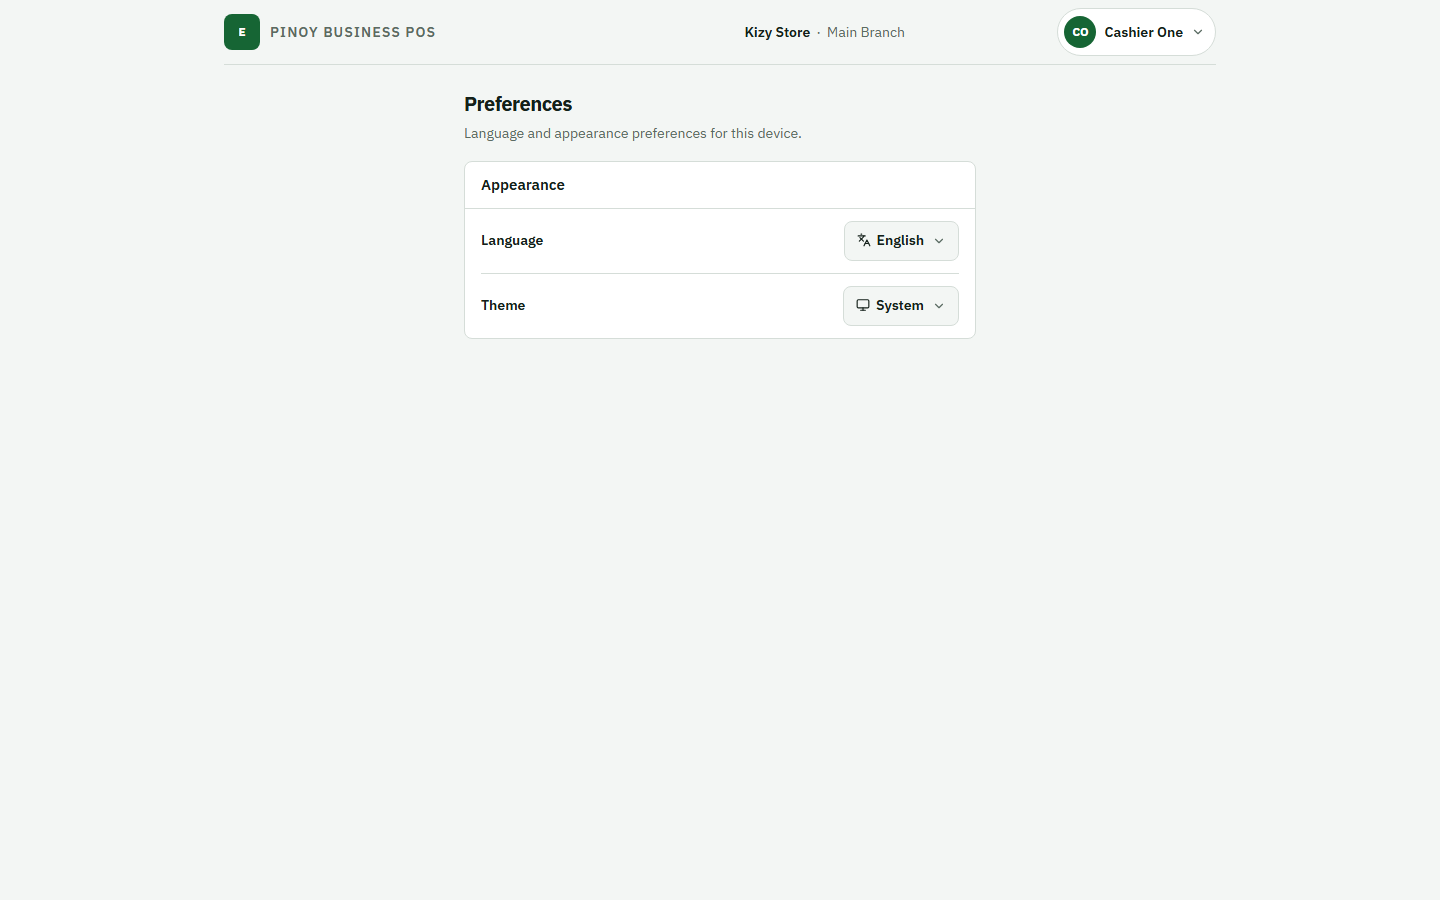
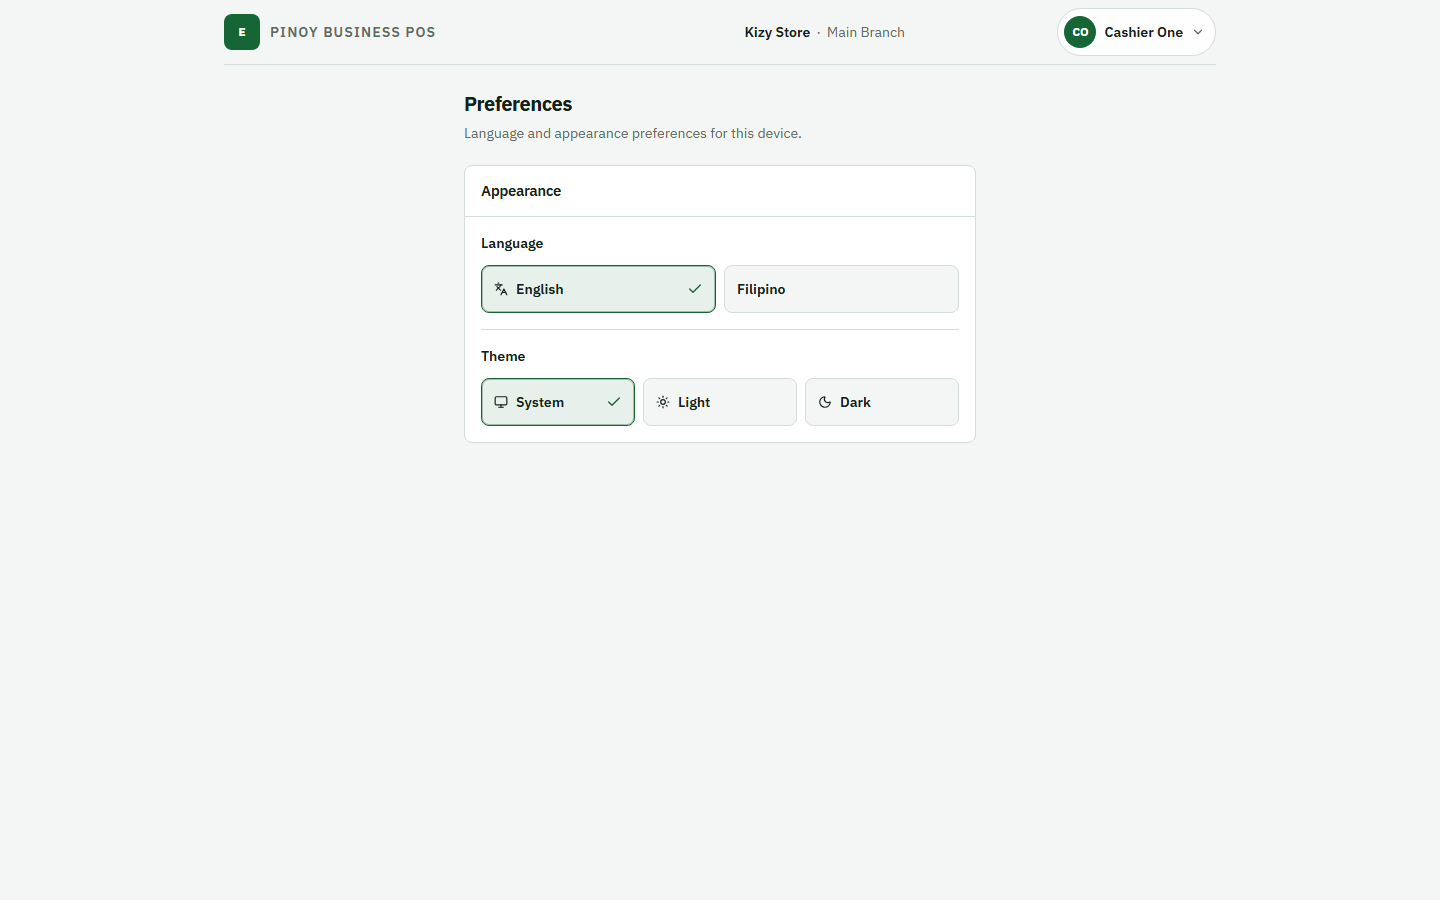
refactor(pos-react): polish mobile account shell and preferences

diff --git a/src/Products/PinoyBusinessPOS/ExItS.PinoyBusinessPOS.Client/src/components/ui/settings-select.tsx b/src/Products/PinoyBusinessPOS/ExItS.PinoyBusinessPOS.Client/src/components/ui/settings-select.tsx
@@ -1,6 +1,5 @@
-import { Check, ChevronDown } from "lucide-react";
-import type { ReactNode } from "react";
-import { DropdownMenu, MenuItem } from "@/components/ui/dropdown-menu";
+import { Check } from "lucide-react";
+import { useId, type ReactNode } from "react";
 import { cn } from "@/lib/cn";
 
 export type SettingsOption<T extends string> = {
@@ -14,78 +13,67 @@ type SettingsSelectProps<T extends string> = {
   value: T;
   options: SettingsOption<T>[];
   onChange: (value: T) => void;
-  open: boolean;
-  onOpenChange: (open: boolean) => void;
 };
 
-/** Compact settings-row select (not segmented buttons). */
+/**
+ * In-flow preference choices (not an absolute dropdown).
+ * Avoids covering the next settings row on narrow phone viewports.
+ */
 export function SettingsSelect<T extends string>({
   label,
   value,
   options,
   onChange,
-  open,
-  onOpenChange,
 }: SettingsSelectProps<T>) {
-  const selected = options.find((option) => option.value === value) ?? options[0];
+  const labelId = useId();
+  const layoutClass =
+    options.length === 2
+      ? "grid grid-cols-1 gap-2 min-[380px]:grid-cols-2"
+      : options.length === 3
+        ? "grid grid-cols-1 gap-2 min-[480px]:grid-cols-3"
+        : "flex flex-col gap-2";
 
   return (
-    <div className="flex min-w-0 items-center justify-between gap-4 py-3">
-      <span className="shrink-0 text-[length:var(--exits-text-sm)] font-semibold text-foreground">
+    <div className="flex min-w-0 flex-col gap-3 py-4">
+      <span
+        id={labelId}
+        className="text-[length:var(--exits-text-sm)] font-semibold text-foreground"
+      >
         {label}
       </span>
-      <DropdownMenu
-        align="end"
-        open={open}
-        onOpenChange={onOpenChange}
-        menuLabel={label}
-        trigger={({ id, expanded, controls, onClick, onKeyDown }) => (
-          <button
-            id={id}
-            type="button"
-            className={cn(
-              "inline-flex min-h-[2.5rem] max-w-[12rem] items-center justify-between gap-2 rounded-[var(--exits-radius-md)] border border-border bg-background px-3 text-[length:var(--exits-text-sm)] font-semibold text-foreground transition-colors duration-[var(--exits-motion-fast)] hover:bg-[var(--exits-surface-muted)] focus-visible:outline-none focus-visible:ring-2 focus-visible:ring-ring",
-              expanded && "bg-[var(--exits-surface-muted)]",
-            )}
-            aria-haspopup="menu"
-            aria-expanded={expanded}
-            aria-controls={controls}
-            aria-label={`${label}: ${selected?.label ?? ""}`}
-            onClick={onClick}
-            onKeyDown={onKeyDown}
-          >
-            <span className="flex min-w-0 items-center gap-1.5 truncate">
-              {selected?.icon}
-              <span className="truncate">{selected?.label}</span>
-            </span>
-            <ChevronDown className="size-3.5 shrink-0 text-muted" aria-hidden="true" />
-          </button>
-        )}
-      >
+      <div role="radiogroup" aria-labelledby={labelId} className={layoutClass}>
         {options.map((option) => {
-          const selectedOption = option.value === value;
+          const selected = option.value === value;
           return (
-            <MenuItem
+            <button
               key={option.value}
-              onSelect={() => {
+              type="button"
+              role="radio"
+              aria-checked={selected}
+              aria-label={`${label}: ${option.label}`}
+              className={cn(
+                "flex min-h-[var(--exits-touch-target-min)] min-w-0 items-center gap-2.5 rounded-[var(--exits-radius-md)] border px-3 py-2.5 text-left text-[length:var(--exits-text-sm)] font-semibold transition-[background-color,border-color,color,box-shadow] duration-[var(--exits-motion-fast)] focus-visible:outline-none focus-visible:ring-2 focus-visible:ring-ring",
+                selected
+                  ? "border-primary bg-[color-mix(in_srgb,var(--exits-primary)_10%,var(--exits-surface))] text-foreground shadow-[inset_0_0_0_1px_color-mix(in_srgb,var(--exits-primary)_35%,transparent)]"
+                  : "border-border bg-background text-foreground hover:bg-[var(--exits-surface-muted)]",
+              )}
+              onClick={() => {
                 onChange(option.value);
-                onOpenChange(false);
               }}
             >
               <span className="flex min-w-0 flex-1 items-center gap-2 truncate">
                 {option.icon}
                 <span className="truncate">{option.label}</span>
               </span>
-              {selectedOption ? (
+              {selected ? (
                 <Check className="size-4 shrink-0 text-primary" aria-hidden="true" />
               ) : (
                 <span className="size-4 shrink-0" aria-hidden="true" />
               )}
-              {selectedOption ? <span className="sr-only">selected</span> : null}
-            </MenuItem>
+            </button>
           );
         })}
-      </DropdownMenu>
+      </div>
     </div>
   );
 }

diff --git a/src/Products/PinoyBusinessPOS/ExItS.PinoyBusinessPOS.Client/src/components/exits/AppTopBar.tsx b/src/Products/PinoyBusinessPOS/ExItS.PinoyBusinessPOS.Client/src/components/exits/AppTopBar.tsx
@@ -49,18 +49,45 @@ export function AppTopBar() {
           >
             E
           </div>
-          <div className="min-w-0">
-            <p className="m-0 truncate text-[length:var(--exits-text-xs)] font-semibold tracking-[0.08em] uppercase text-muted sm:text-[length:var(--exits-text-sm)]">
+          <div className="min-w-0 md:hidden">
+            {boundWorkspace ? (
+              <button
+                type="button"
+                data-testid="workspace-context-mobile"
+                className={cn(
+                  "flex min-w-0 max-w-full flex-col items-start rounded-[var(--exits-radius-md)] px-0.5 py-0.5 text-left focus-visible:outline-none focus-visible:ring-2 focus-visible:ring-ring",
+                  canSwitchWorkspace ? "hover:bg-[var(--exits-surface-muted)]" : "cursor-default",
+                )}
+                title={workspaceLabel ?? undefined}
+                aria-label={
+                  canSwitchWorkspace
+                    ? `${t("workspace.switch")}: ${workspaceLabel}`
+                    : (workspaceLabel ?? undefined)
+                }
+                onClick={() => {
+                  if (canSwitchWorkspace) {
+                    navigate("/workspace");
+                  }
+                }}
+                disabled={!canSwitchWorkspace}
+              >
+                <span className="m-0 w-full truncate text-[length:var(--exits-text-sm)] font-semibold text-foreground">
+                  {boundWorkspace.organizationDisplayName}
+                </span>
+                <span className="m-0 w-full truncate text-[length:var(--exits-text-xs)] text-muted">
+                  {boundWorkspace.branchName}
+                </span>
+              </button>
+            ) : (
+              <p className="m-0 truncate text-[length:var(--exits-text-xs)] font-semibold tracking-[0.08em] uppercase text-muted sm:text-[length:var(--exits-text-sm)]">
+                {t("app.name")}
+              </p>
+            )}
+          </div>
+          <div className="hidden min-w-0 md:block">
+            <p className="m-0 truncate text-[length:var(--exits-text-sm)] font-semibold tracking-[0.08em] uppercase text-muted">
               {t("app.name")}
             </p>
-            {boundWorkspace ? (
-              <p
-                className="m-0 truncate text-[length:var(--exits-text-sm)] font-semibold text-foreground md:hidden"
-                title={workspaceLabel ?? undefined}
-              >
-                {boundWorkspace.branchName}
-              </p>
-            ) : null}
           </div>
         </div>
 

diff --git a/src/Products/PinoyBusinessPOS/ExItS.PinoyBusinessPOS.Client/src/app/foundation.test.tsx b/src/Products/PinoyBusinessPOS/ExItS.PinoyBusinessPOS.Client/src/app/foundation.test.tsx
@@ -41,8 +41,8 @@ describe("POS React foundation", () => {
     renderAuthenticatedAt("/settings/preferences");
     await waitFor(() => {
       expect(screen.getByRole("heading", { name: "Preferences" })).toBeInTheDocument();
-      expect(screen.getByRole("button", { name: "Language: English" })).toBeInTheDocument();
-      expect(screen.getByRole("button", { name: "Theme: System" })).toBeInTheDocument();
+      expect(screen.getByRole("radio", { name: "Language: English" })).toBeInTheDocument();
+      expect(screen.getByRole("radio", { name: "Theme: System" })).toBeInTheDocument();
     });
     expect(document.documentElement.lang).toBe("en");
     expect(document.documentElement.dataset.theme).toBe("system");
@@ -54,8 +54,7 @@ describe("POS React foundation", () => {
     await waitFor(() => {
       expect(screen.getByRole("heading", { name: "Preferences" })).toBeInTheDocument();
     });
-    await user.click(screen.getByRole("button", { name: "Language: English" }));
-    await user.click(screen.getByRole("menuitem", { name: /Filipino/ }));
+    await user.click(screen.getByRole("radio", { name: "Language: Filipino" }));
     await waitFor(() => {
       expect(document.documentElement.lang).toBe("fil-PH");
     });
@@ -70,17 +69,13 @@ describe("POS React foundation", () => {
     renderAuthenticatedAt("/settings/preferences");
     await waitFor(() => {
       expect(screen.getByRole("heading", { name: "Preferences" })).toBeInTheDocument();
-      expect(
-        screen.getByRole("button", { name: /Theme: System|Tema: System/ }),
-      ).toBeInTheDocument();
+      expect(screen.getByRole("radio", { name: /Theme: System|Tema: System/ })).toBeInTheDocument();
     });
-    await user.click(screen.getByRole("button", { name: /Theme: System|Tema: System/ }));
-    await user.click(screen.getByRole("menuitem", { name: /Dark/ }));
+    await user.click(screen.getByRole("radio", { name: /Theme: Dark|Tema: Dark/ }));
     await waitFor(() => {
       expect(document.documentElement.dataset.theme).toBe("dark");
     });
-    await user.click(screen.getByRole("button", { name: /Theme: Dark|Tema: Dark/ }));
-    await user.click(screen.getByRole("menuitem", { name: /Light/ }));
+    await user.click(screen.getByRole("radio", { name: /Theme: Light|Tema: Light/ }));
     await waitFor(() => {
       expect(document.documentElement.dataset.theme).toBe("light");
     });

diff --git a/src/Products/PinoyBusinessPOS/ExItS.PinoyBusinessPOS.Client/e2e/foundation.spec.ts b/src/Products/PinoyBusinessPOS/ExItS.PinoyBusinessPOS.Client/e2e/foundation.spec.ts
@@ -71,14 +71,11 @@ test.describe("POS React foundation", () => {
     await mockAuthenticatedSession(page);
     await page.goto("/settings/preferences");
     await expect(page.getByRole("heading", { name: "Preferences" })).toBeVisible();
-    await page.getByRole("button", { name: "Theme: System" }).click();
-    await page.getByRole("menuitem", { name: /Dark/ }).click();
+    await page.getByRole("radio", { name: "Theme: Dark" }).click();
     await expect(page.locator("html")).toHaveAttribute("data-theme", "dark");
-    await page.getByRole("button", { name: "Theme: Dark" }).click();
-    await page.getByRole("menuitem", { name: /Light/ }).click();
+    await page.getByRole("radio", { name: "Theme: Light" }).click();
     await expect(page.locator("html")).toHaveAttribute("data-theme", "light");
-    await page.getByRole("button", { name: "Theme: Light" }).click();
-    await page.getByRole("menuitem", { name: /System/ }).click();
+    await page.getByRole("radio", { name: "Theme: System" }).click();
     await expect(page.locator("html")).toHaveAttribute("data-theme", "system");
   });
 
@@ -86,12 +83,10 @@ test.describe("POS React foundation", () => {
     await mockAuthenticatedSession(page);
     await page.goto("/settings/preferences");
     await expect(page.getByRole("heading", { name: "Preferences" })).toBeVisible();
-    await page.getByRole("button", { name: "Language: English" }).click();
-    await page.getByRole("menuitem", { name: /Filipino/ }).click();
+    await page.getByRole("radio", { name: "Language: Filipino" }).click();
     await expect(page.locator("html")).toHaveAttribute("lang", "fil-PH");
     await expect(page.getByRole("heading", { name: "Preferences" })).toBeVisible();
-    await page.getByRole("button", { name: /Language: Filipino|Wika: Filipino/ }).click();
-    await page.getByRole("menuitem", { name: /English/ }).click();
+    await page.getByRole("radio", { name: /Language: English|Wika: English/ }).click();
     await expect(page.locator("html")).toHaveAttribute("lang", "en");
     await expect(page.getByRole("heading", { name: "Preferences" })).toBeVisible();
   });

diff --git a/src/Products/PinoyBusinessPOS/ExItS.PinoyBusinessPOS.Client/e2e/shell-account-ux.spec.ts b/src/Products/PinoyBusinessPOS/ExItS.PinoyBusinessPOS.Client/e2e/shell-account-ux.spec.ts
@@ -49,16 +49,14 @@ test.describe("shell account UX evidence", () => {
     await page.getByTestId("account-menu-trigger").click();
     await page.getByRole("menuitem", { name: "Preferences" }).click();
 
-    await page.getByRole("button", { name: "Theme: System" }).click();
-    await page.getByRole("menuitem", { name: /Dark/ }).click();
+    await page.getByRole("radio", { name: "Theme: Dark" }).click();
     await expect(page.locator("html")).toHaveAttribute("data-theme", "dark");
     await page.screenshot({
       path: path.join(screenshotDir, "04-desktop-preferences-1440x900-en-dark.png"),
       fullPage: true,
     });
 
-    await page.getByRole("button", { name: "Language: English" }).click();
-    await page.getByRole("menuitem", { name: /Filipino/ }).click();
+    await page.getByRole("radio", { name: "Language: Filipino" }).click();
     await expect(page.locator("html")).toHaveAttribute("lang", "fil-PH");
     await page.screenshot({
       path: path.join(screenshotDir, "05-desktop-preferences-1440x900-fil-dark.png"),

diff --git a/src/Products/PinoyBusinessPOS/ExItS.PinoyBusinessPOS.Client/src/features/preferences/PreferencesPage.tsx b/src/Products/PinoyBusinessPOS/ExItS.PinoyBusinessPOS.Client/src/features/preferences/PreferencesPage.tsx
@@ -7,16 +7,16 @@ export function PreferencesPage() {
   const { t } = useI18n();
 
   return (
-    <div className="mx-auto flex w-full max-w-lg min-w-0 flex-col gap-4">
+    <div className="mx-auto flex w-full max-w-lg min-w-0 flex-col gap-5">
       <PageHeader title={t("preferences.title")} description={t("preferences.lede")} />
       <section
-        className="overflow-hidden rounded-[var(--exits-radius-md)] border border-border bg-surface"
+        className="rounded-[var(--exits-radius-md)] border border-border bg-surface"
         aria-labelledby="preferences-appearance"
       >
-        <div className="border-b border-border px-4 py-3">
+        <div className="border-b border-border px-4 py-3.5">
           <h2
             id="preferences-appearance"
-            className="m-0 text-[length:var(--exits-text-md)] font-semibold text-foreground"
+            className="m-0 text-[length:var(--exits-text-md)] font-semibold tracking-tight text-foreground"
           >
             {t("preferences.appearance")}
           </h2>

diff --git a/src/Products/PinoyBusinessPOS/ExItS.PinoyBusinessPOS.Client/src/components/exits/LanguageControl.tsx b/src/Products/PinoyBusinessPOS/ExItS.PinoyBusinessPOS.Client/src/components/exits/LanguageControl.tsx
@@ -1,5 +1,4 @@
 import { Languages } from "lucide-react";
-import { useState } from "react";
 import { SettingsSelect } from "@/components/ui/settings-select";
 import { usePreferences } from "@/hooks/usePreferences";
 import { useI18n } from "@/i18n/I18nProvider";
@@ -8,14 +7,11 @@ import type { LocalePreference } from "@/lib/preferences/ui-preferences";
 export function LanguageControl() {
   const { t } = useI18n();
   const { preferences, setLocale } = usePreferences();
-  const [open, setOpen] = useState(false);
 
   return (
     <SettingsSelect<LocalePreference>
       label={t("locale.label")}
       value={preferences.locale}
-      open={open}
-      onOpenChange={setOpen}
       onChange={setLocale}
       options={[
         {

diff --git a/src/Products/PinoyBusinessPOS/ExItS.PinoyBusinessPOS.Client/src/components/exits/ThemeControl.tsx b/src/Products/PinoyBusinessPOS/ExItS.PinoyBusinessPOS.Client/src/components/exits/ThemeControl.tsx
@@ -1,5 +1,4 @@
 import { Monitor, Moon, Sun } from "lucide-react";
-import { useState } from "react";
 import { SettingsSelect } from "@/components/ui/settings-select";
 import { usePreferences } from "@/hooks/usePreferences";
 import { useI18n } from "@/i18n/I18nProvider";
@@ -8,14 +7,11 @@ import type { ThemePreference } from "@/lib/preferences/ui-preferences";
 export function ThemeControl() {
   const { t } = useI18n();
   const { preferences, setTheme } = usePreferences();
-  const [open, setOpen] = useState(false);
 
   return (
     <SettingsSelect<ThemePreference>
       label={t("theme.label")}
       value={preferences.theme}
-      open={open}
-      onOpenChange={setOpen}
       onChange={setTheme}
       options={[
         {

diff --git a/src/Products/PinoyBusinessPOS/ExItS.PinoyBusinessPOS.Client/src/components/exits/account-shell.test.tsx b/src/Products/PinoyBusinessPOS/ExItS.PinoyBusinessPOS.Client/src/components/exits/account-shell.test.tsx
@@ -155,6 +155,9 @@ describe("account shell", () => {
     const trigger = screen.getByTestId("account-menu-trigger");
     expect(trigger).toHaveTextContent("OM");
     expect(screen.getByTestId("workspace-context")).toHaveTextContent("Kizy Store");
+    const mobileContext = screen.getByTestId("workspace-context-mobile");
+    expect(mobileContext).toHaveTextContent("Kizy Store");
+    expect(mobileContext).toHaveTextContent("Main Branch");
     expect(screen.queryByRole("button", { name: "Preferences" })).not.toBeInTheDocument();
     expect(screen.queryByRole("button", { name: "Sign out" })).not.toBeInTheDocument();
 
